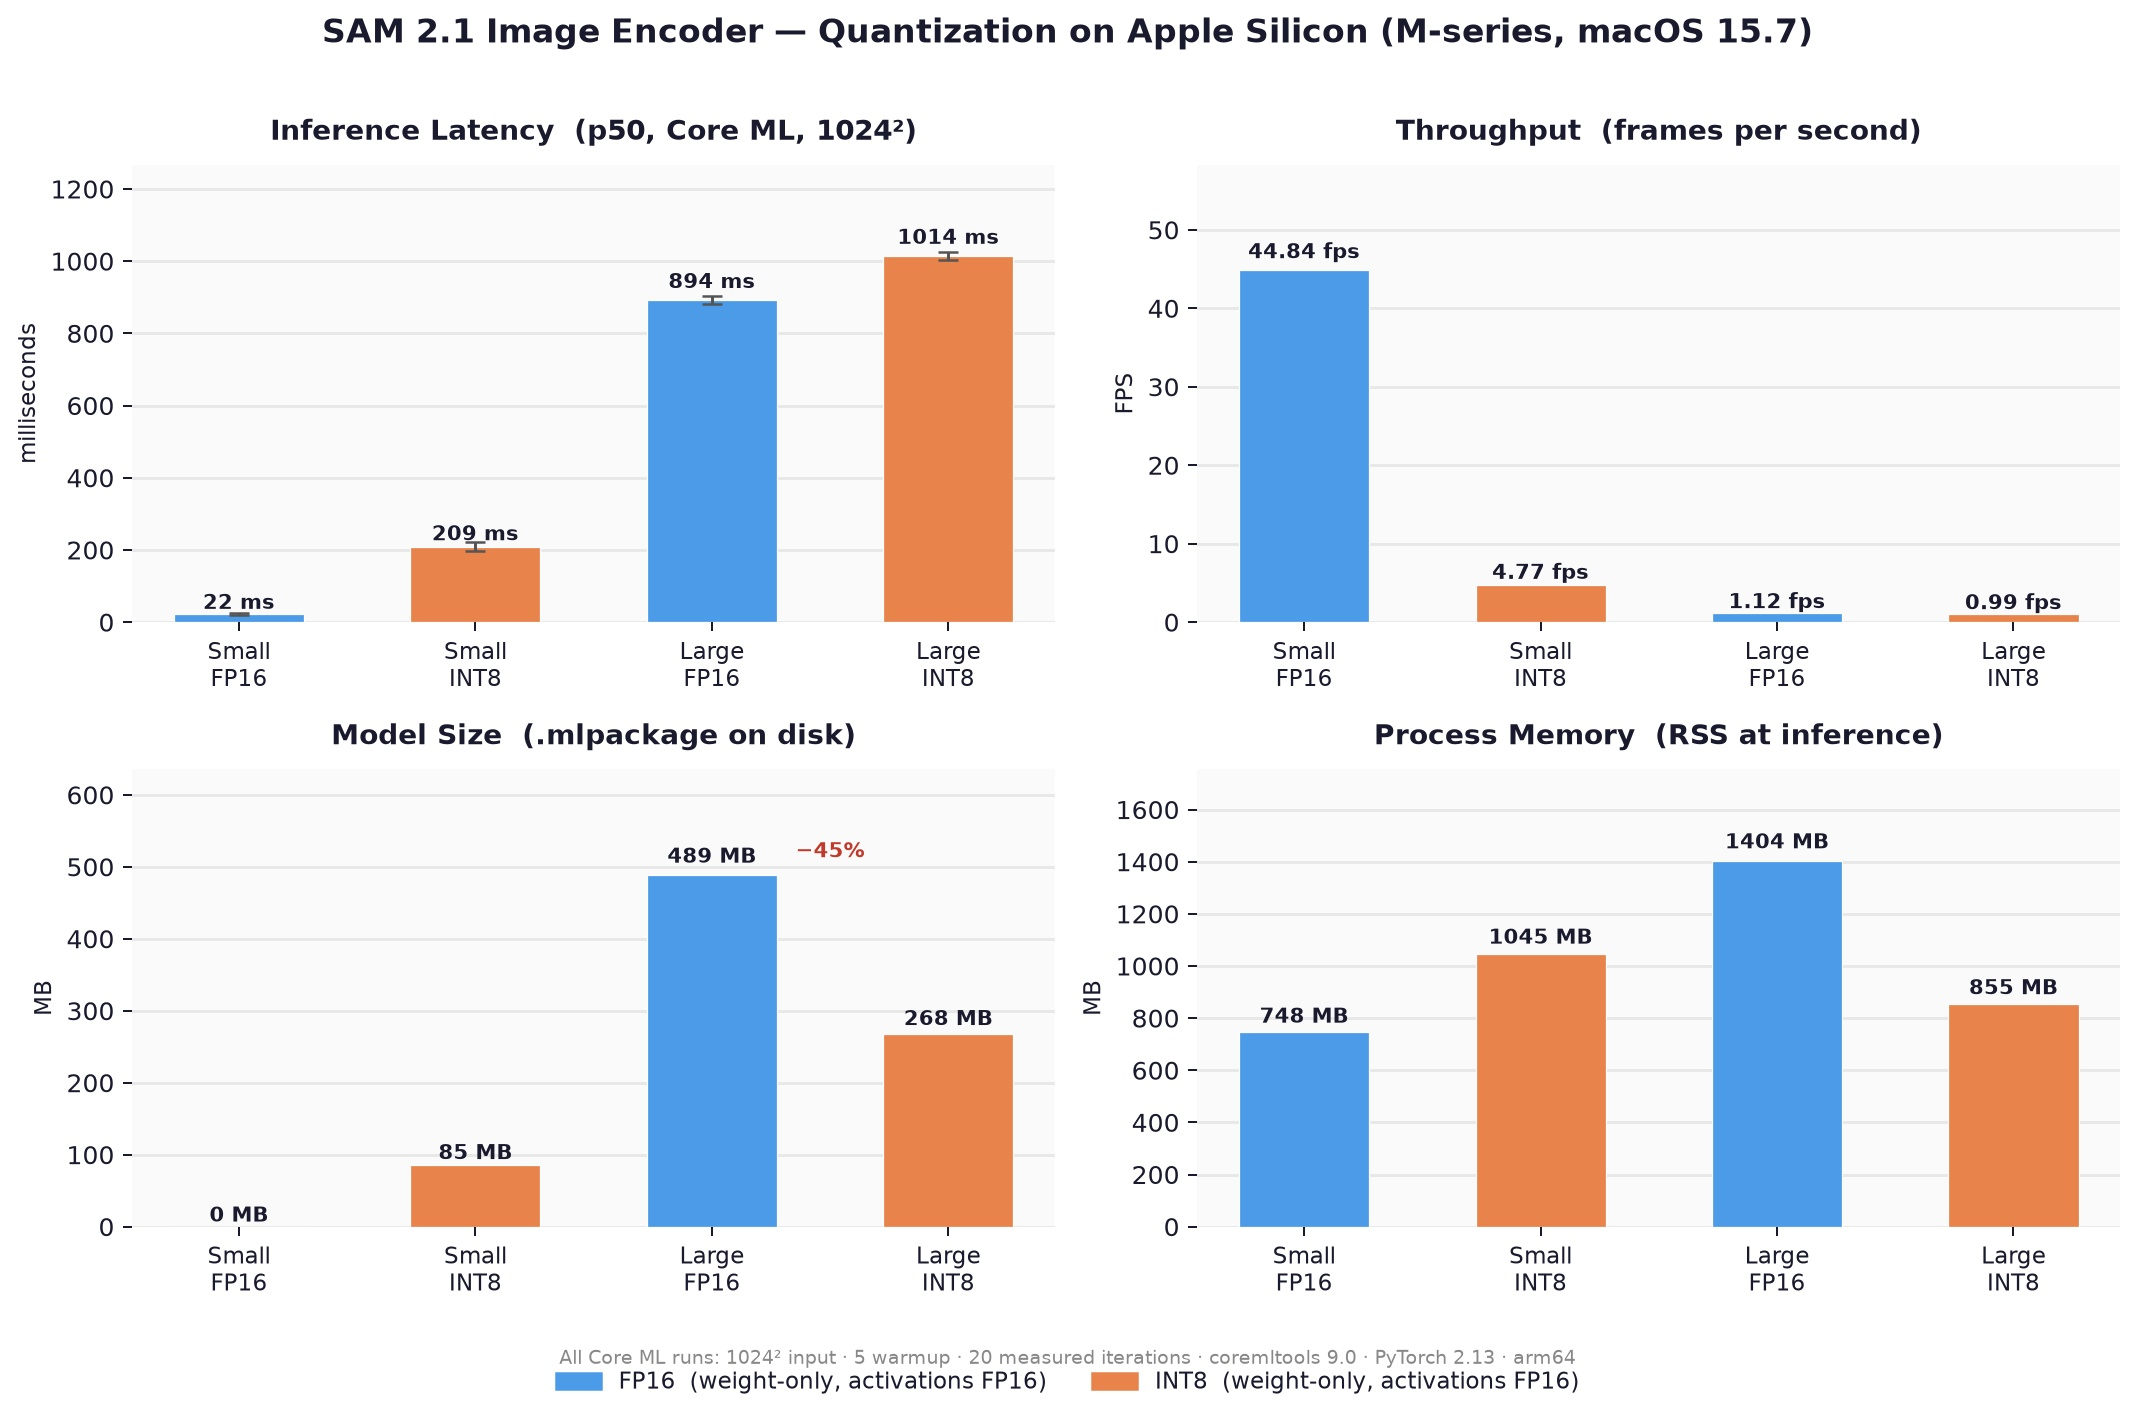
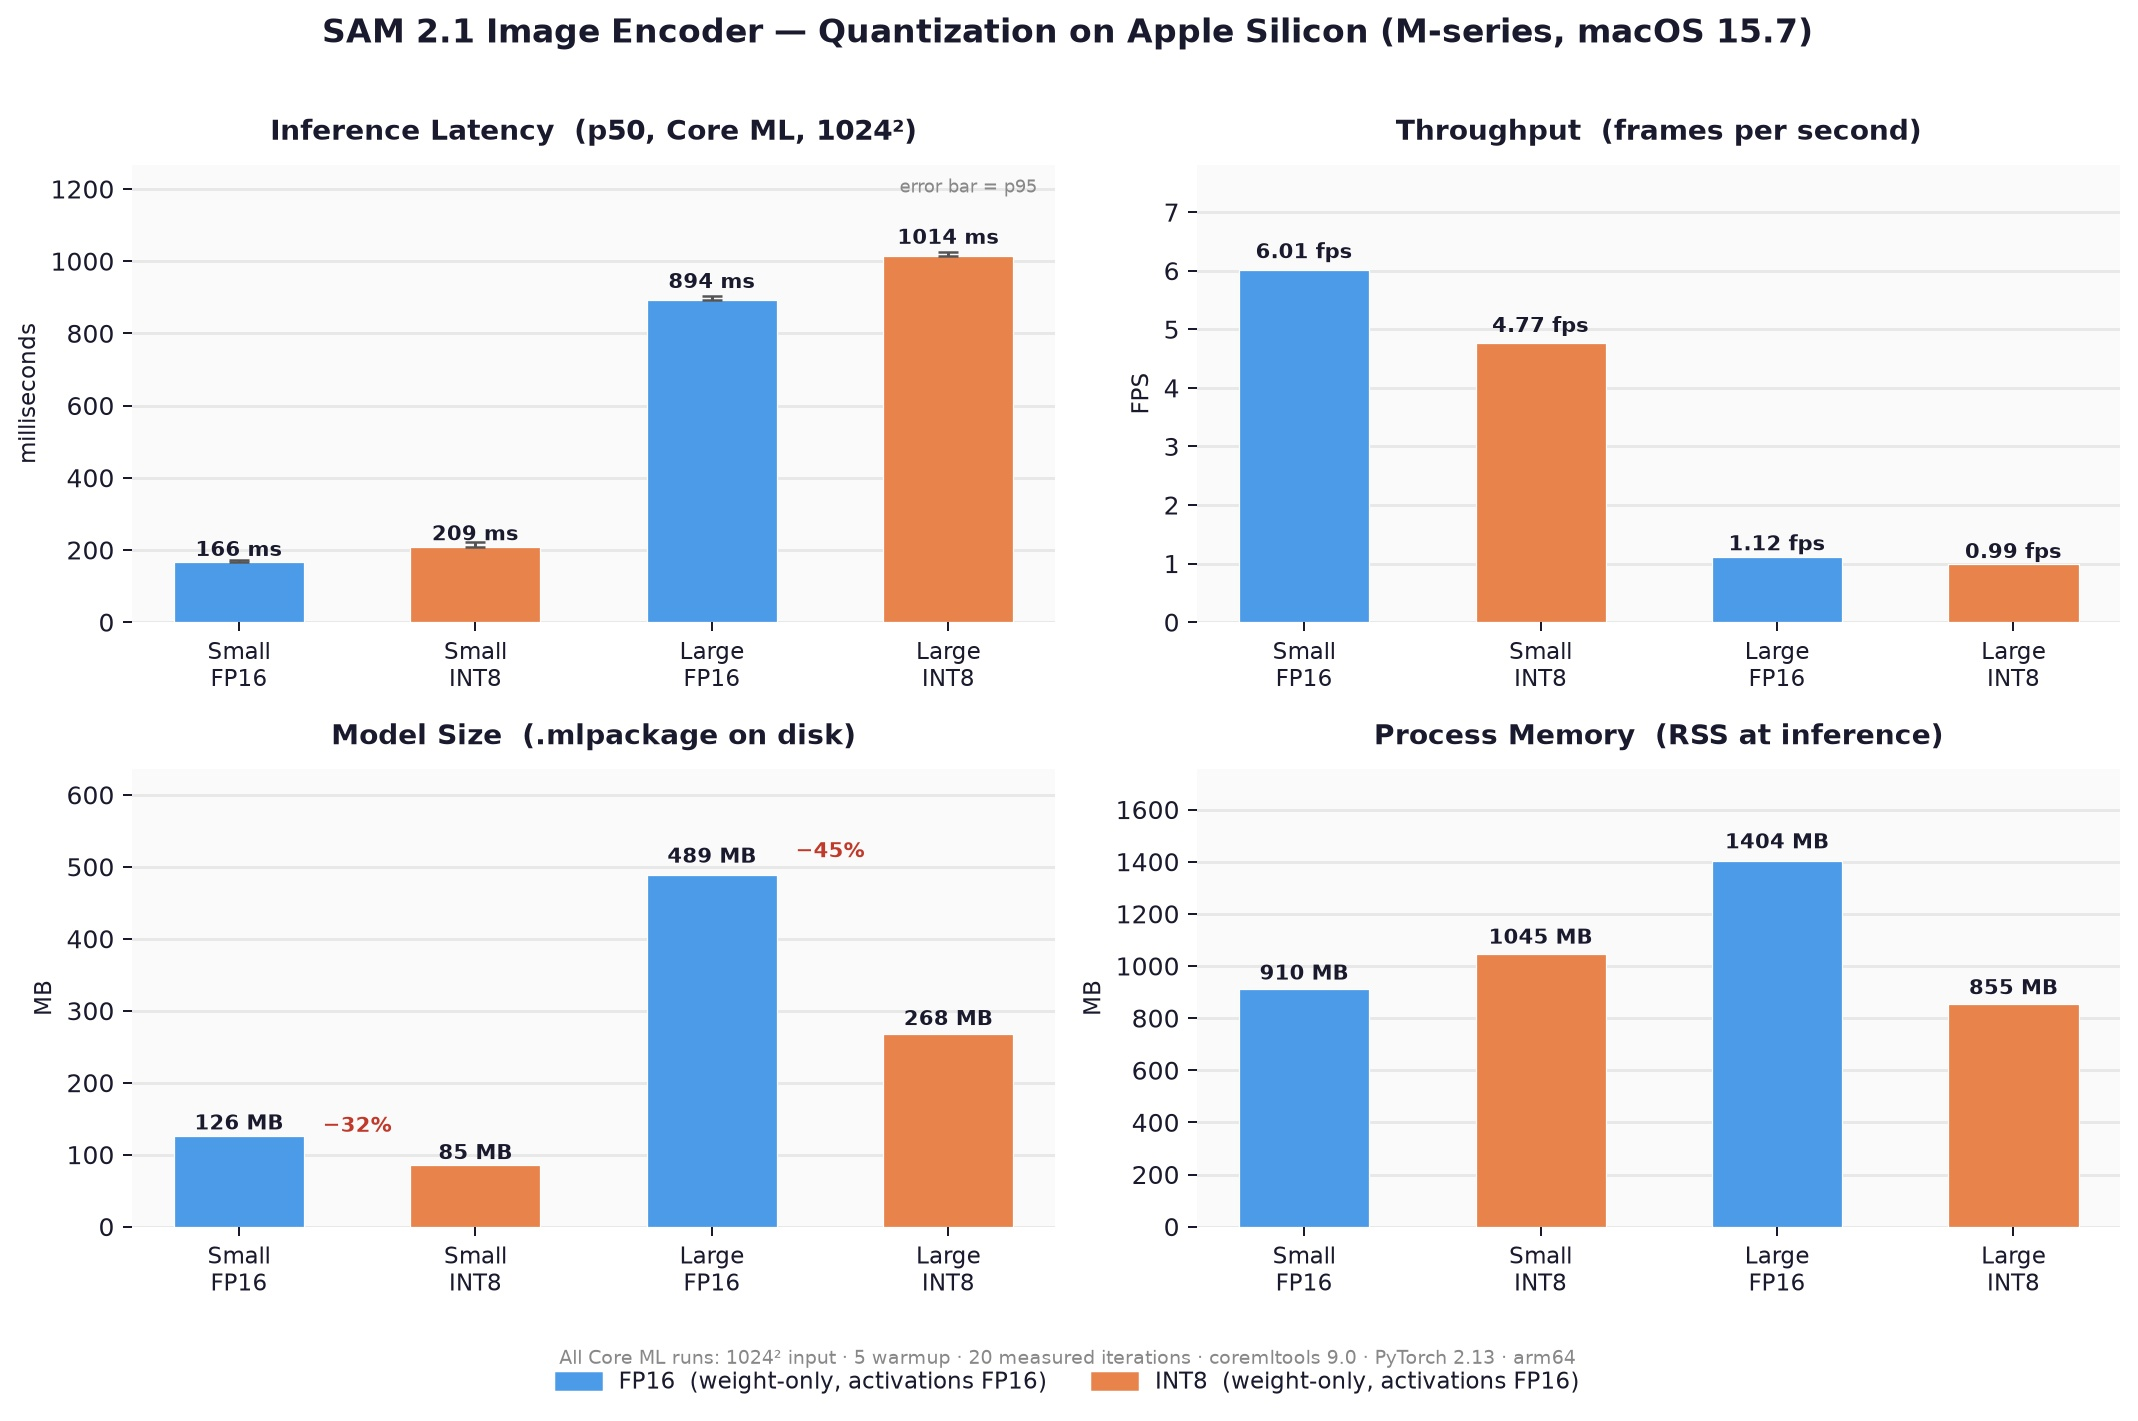
Fix plot: filter by backend to avoid small_fp16 row collision, fix asymmetric error bars

diff --git a/scripts/plot_results.py b/scripts/plot_results.py
@@ -16,14 +16,14 @@ rows = []
 with open(ROOT / "benchmarks/results.csv", newline="") as f:
     rows = list(csv.DictReader(f))
 
-def get(rows, variant, col):
+def get(rows, variant, col, backend="coreml"):
     for r in rows:
-        if r["variant"] == variant:
+        if r["variant"] == variant and r["backend"] == backend:
             v = r[col]
             return float(v) if v else None
     return None
 
-# Core ML rows only (comparable resolution)
+# Core ML rows only (comparable resolution — all 1024²)
 COREML = ["small_fp16", "small_int8", "large_fp16", "large_int8"]
 labels  = ["Small\nFP16", "Small\nINT8", "Large\nFP16", "Large\nINT8"]
 
@@ -33,8 +33,9 @@ rss      = [get(rows, v, "rss_mb")      for v in COREML]
 size     = [get(rows, v, "model_size_mb") or 0.0 for v in COREML]
 fps_vals = [get(rows, v, "fps")         for v in COREML]
 
-# error bars: p95 - p50
-yerr = [p95[i] - p50[i] for i in range(4)]
+# asymmetric error bars: only upward (p50 → p95), nothing below
+yerr_upper = [p95[i] - p50[i] for i in range(4)]
+yerr = [np.zeros(4), np.array(yerr_upper)]  # [lower, upper]
 
 # ── style ─────────────────────────────────────────────────────────────────────
 FP16_COLOR  = "#4C9BE8"   # blue
@@ -89,6 +90,8 @@ def bar_labels(ax, vals, fmt="{:.0f}"):
 ax = axes[0, 0]
 bars = ax.bar(x, p50, width=BAR_W, color=colors, zorder=3, edgecolor="white", linewidth=0.5)
 ax.errorbar(x, p50, yerr=yerr, fmt="none", color="#555", capsize=4, linewidth=1.2, zorder=4)
+ax.text(0.98, 0.97, "error bar = p95", transform=ax.transAxes,
+        ha="right", va="top", fontsize=7, color="#888888")
 style_ax(ax, "Inference Latency  (p50, Core ML, 1024²)", "milliseconds")
 bar_labels(ax, p50, "{:.0f} ms")
 ax.set_ylim(0, max(p50) * 1.25)
